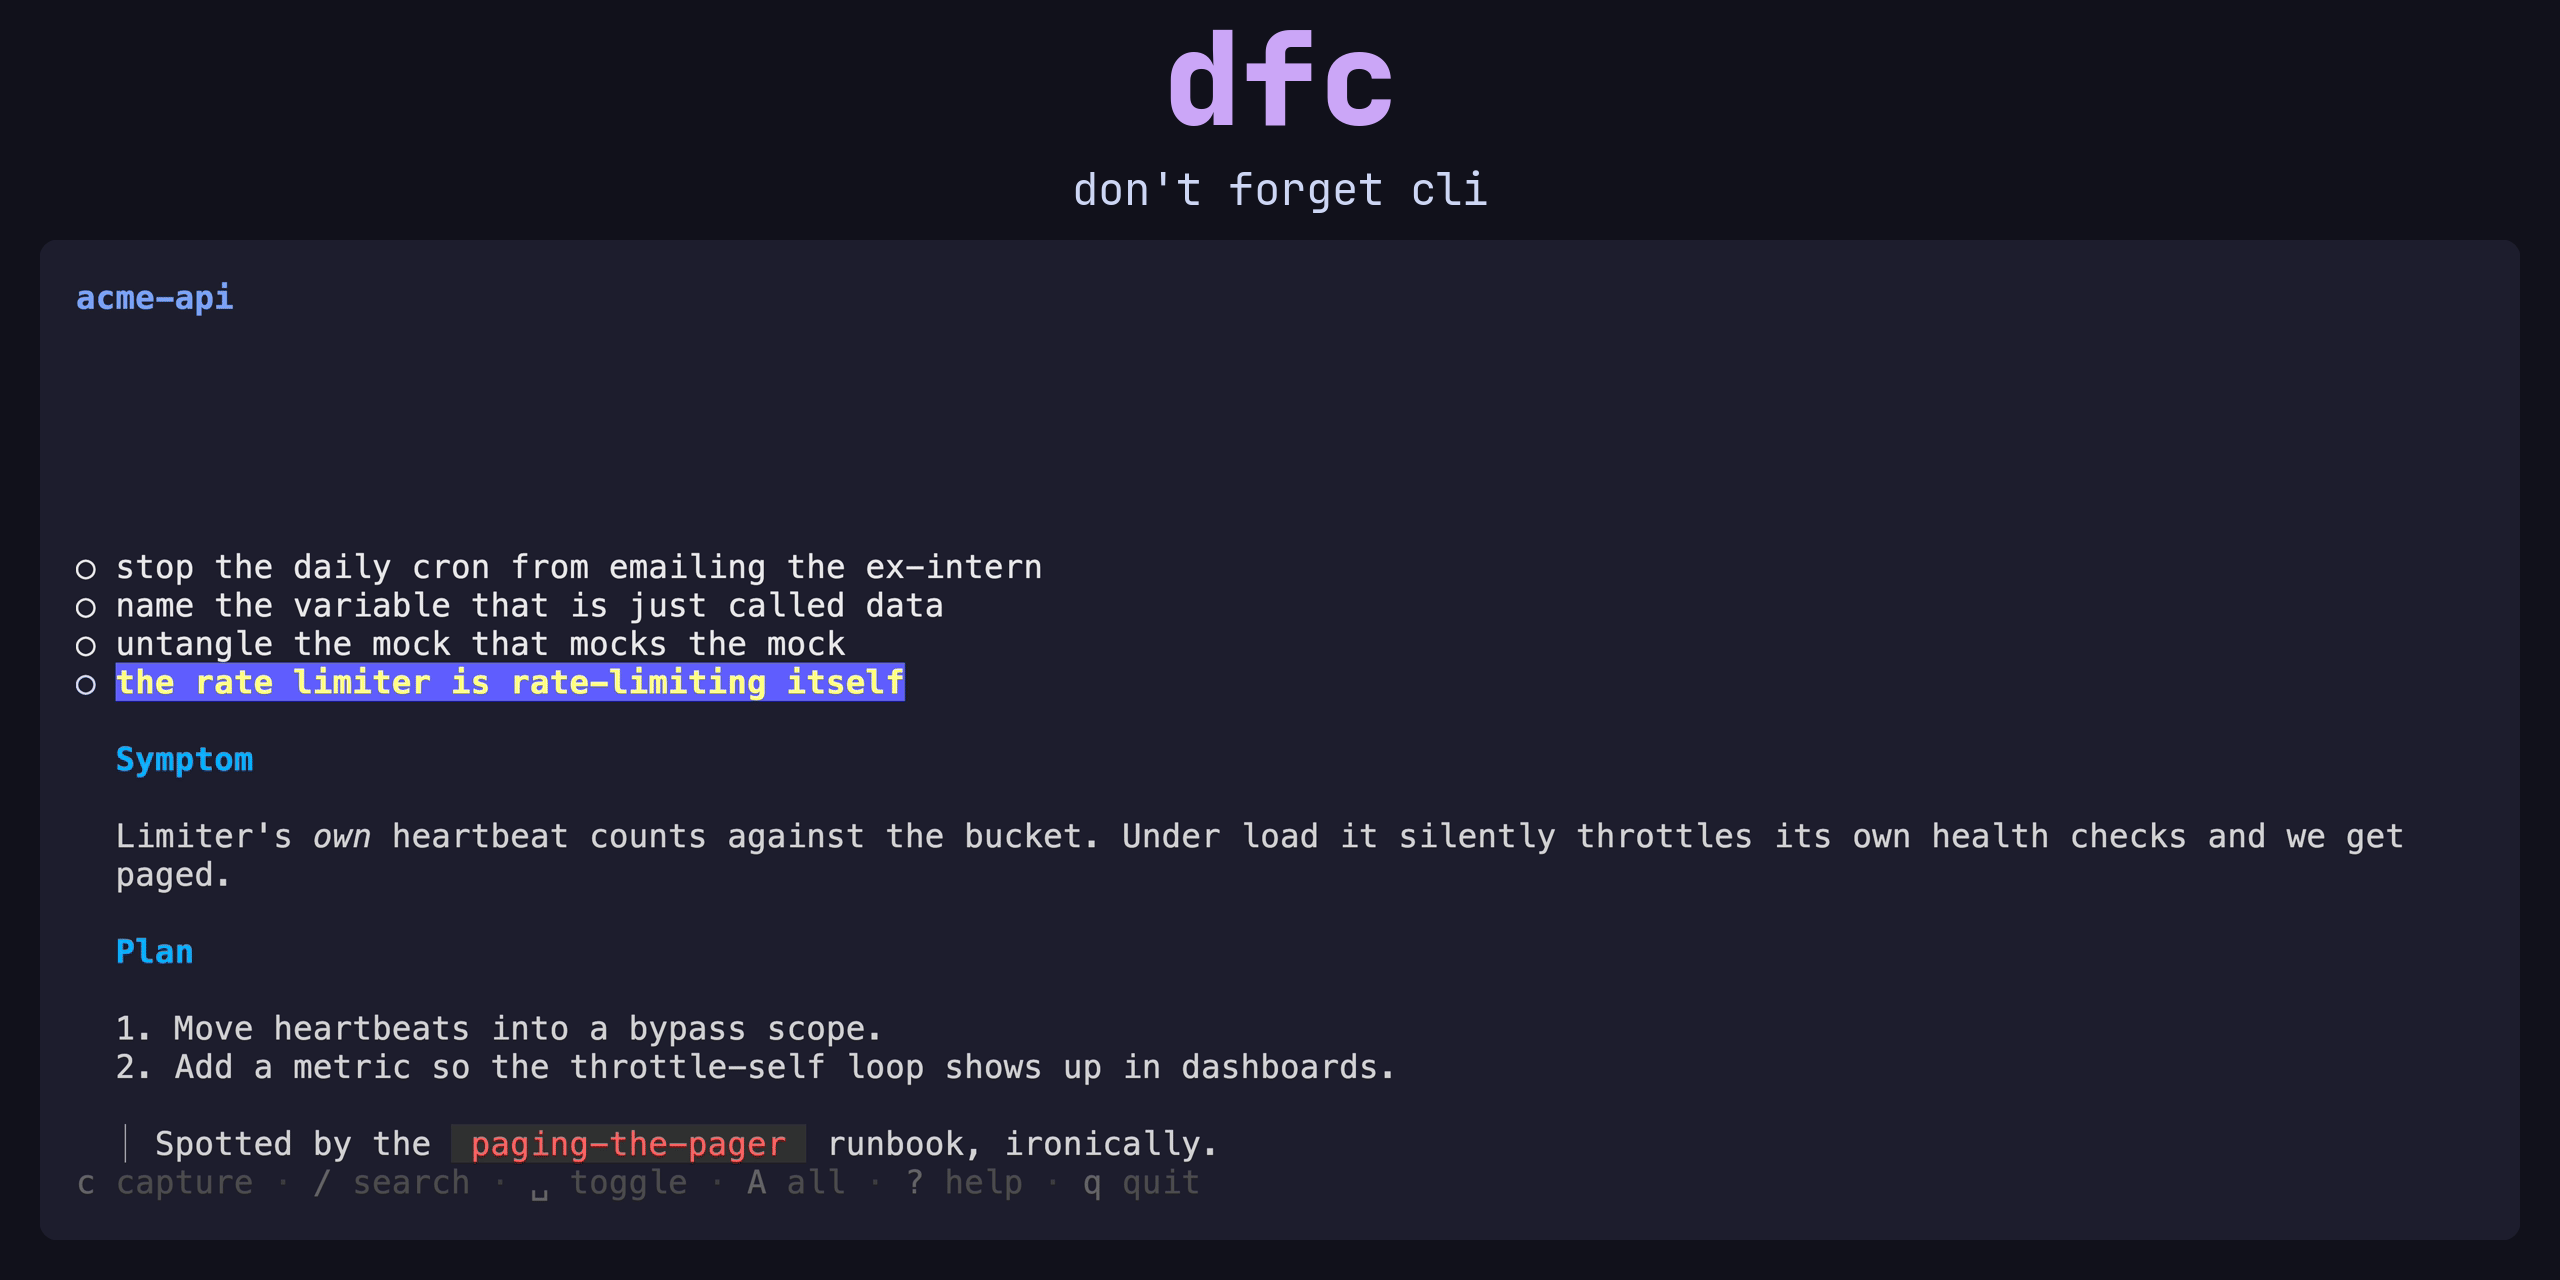
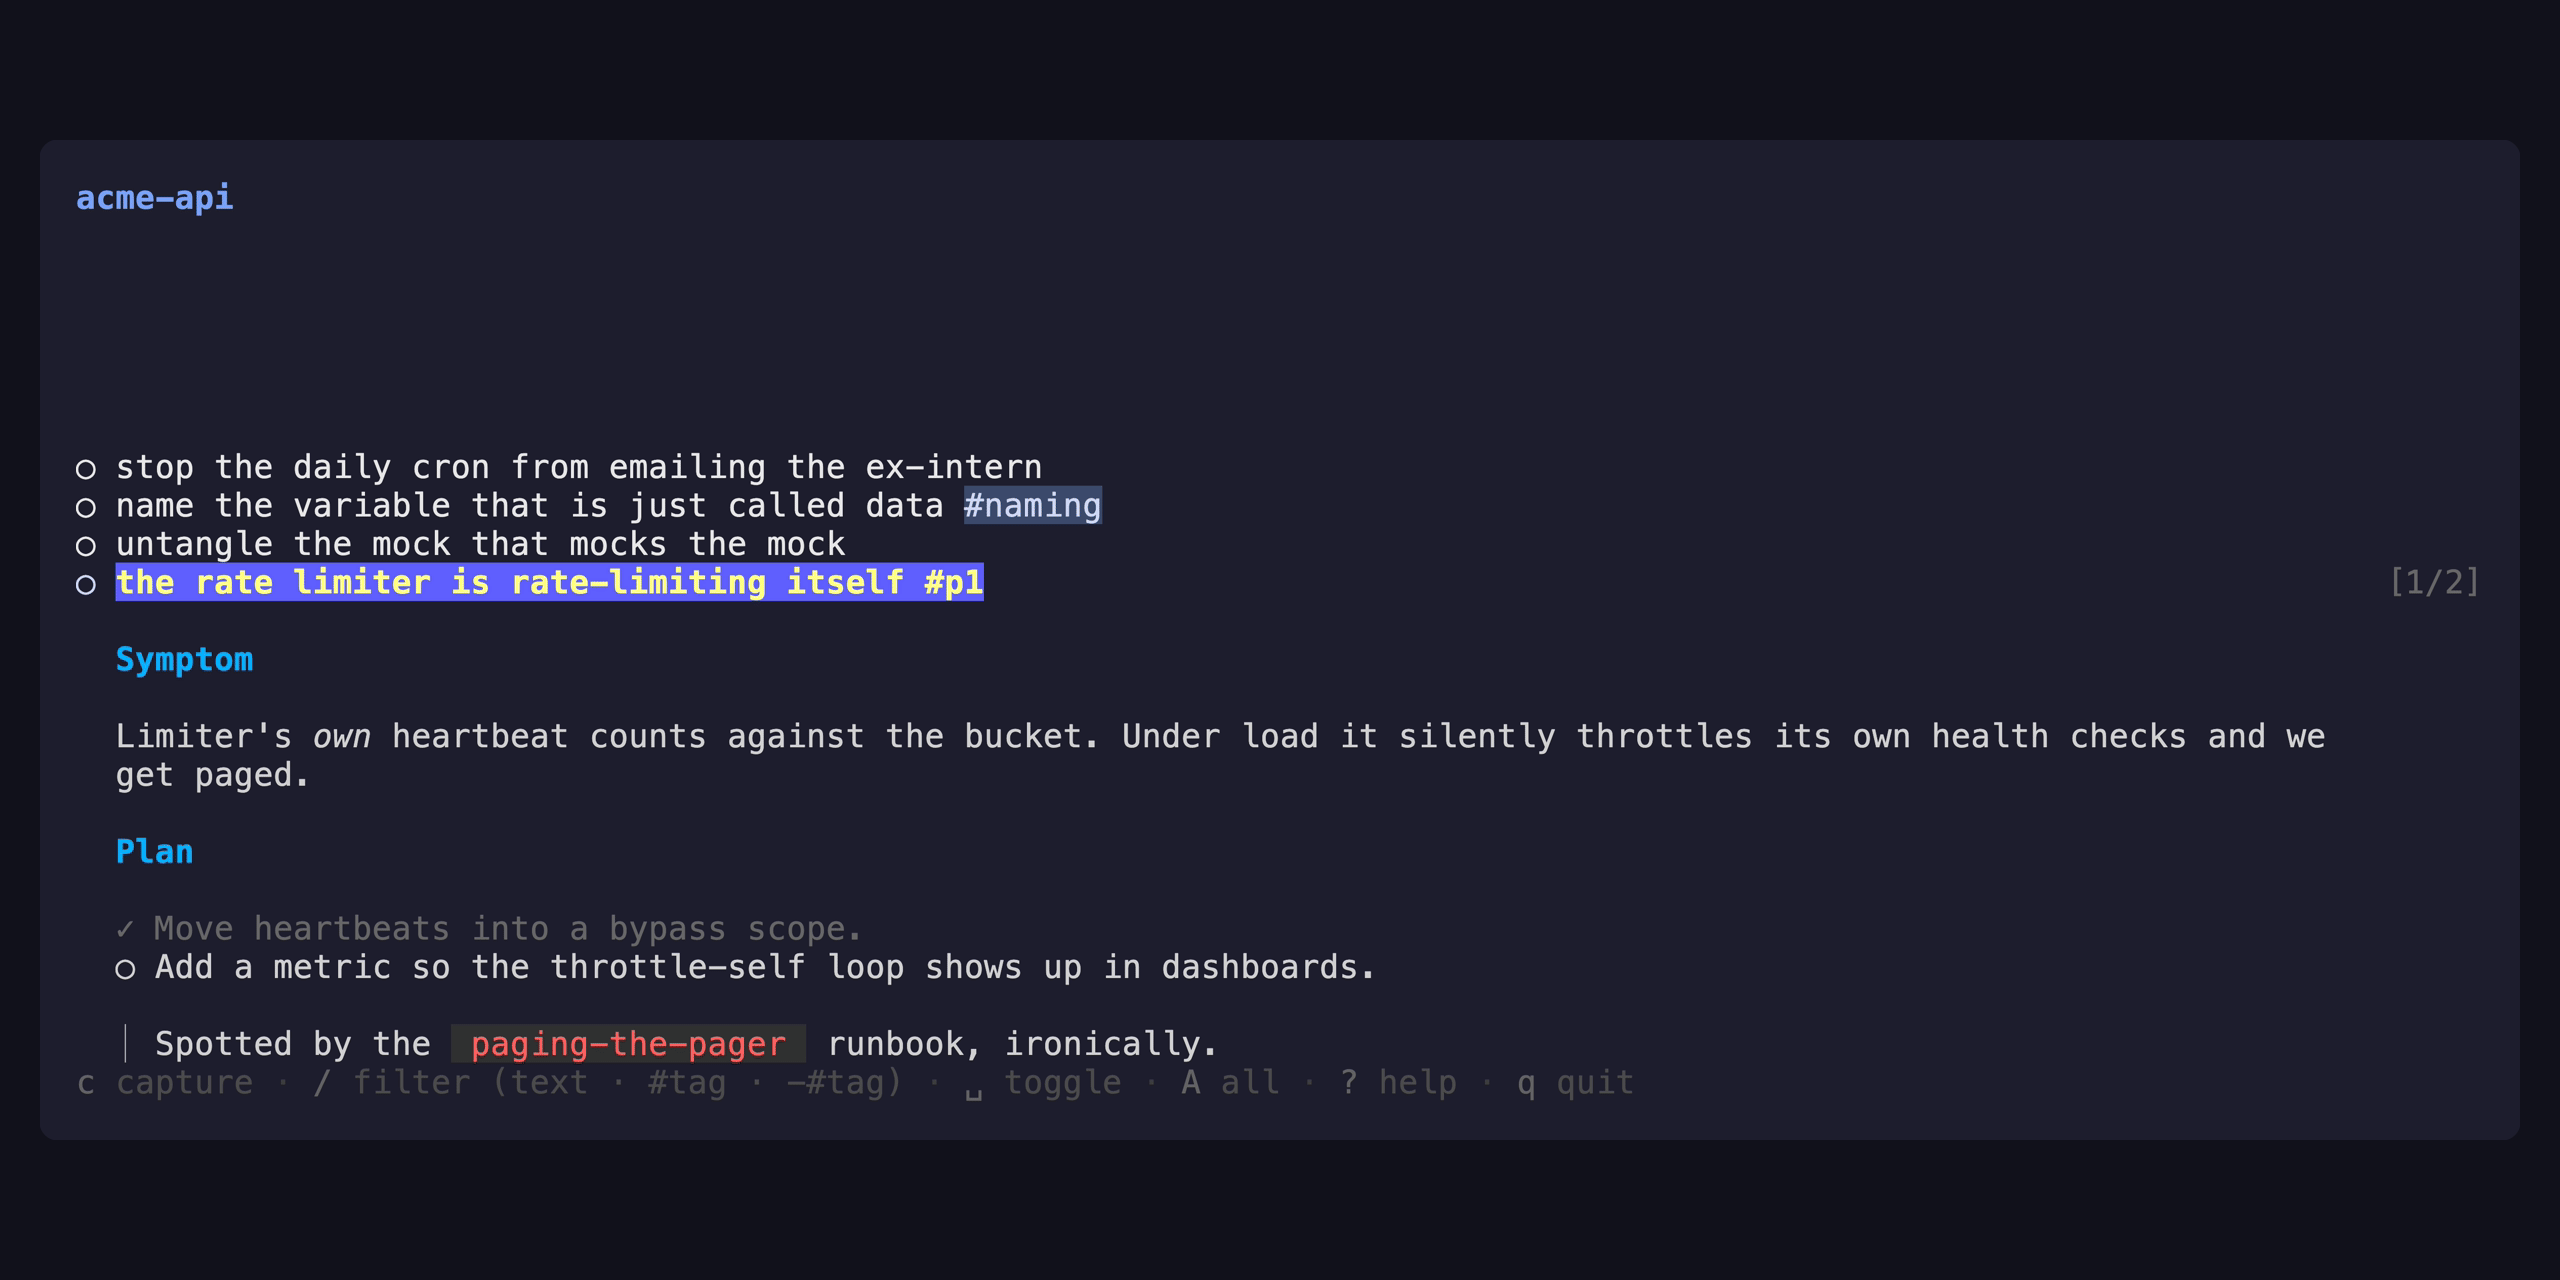
Refresh demo gifs and polish repo docs

diff --git a/README.md b/README.md
@@ -2,6 +2,11 @@
 
 > Quick-capture task CLI and TUI.
 
+[![CI](https://github.com/MaikuMori/dfc/actions/workflows/ci.yml/badge.svg)](https://github.com/MaikuMori/dfc/actions/workflows/ci.yml)
+[![Release](https://img.shields.io/github/v/release/MaikuMori/dfc)](https://github.com/MaikuMori/dfc/releases/latest)
+[![Go Report Card](https://goreportcard.com/badge/github.com/MaikuMori/dfc)](https://goreportcard.com/report/github.com/MaikuMori/dfc)
+[![License: MIT](https://img.shields.io/badge/license-MIT-blue.svg)](LICENSE)
+
 <p align="center">
   <img src="docs/assets/demo.gif" alt="demo" width="1200">
 </p>
@@ -12,11 +17,11 @@
 
 When you're:
 
-- juggling 10 projects;
-- your're in a meeting;
-- or actively doing something else;
+- juggling 10 projects,
+- in a meeting,
+- or actively doing something else,
 
- `dfc` lets you capture tasks quickly without interrupting your workflow.
+`dfc` lets you capture tasks quickly without interrupting your workflow.
 
 `dfc` is not a replacement for a dedicated task management system; it's a quick-capture tool so you don't forget. You can also use it as external todo list for agents that can work across projects.
 
@@ -25,6 +30,7 @@ Key features:
 - **Files on disk.** No database lock-in, no cloud, no account. Open the markdown in any editor.
 - **Project-aware.** Tasks are grouped into projects by directory. Projects are auto-detected from your current working directory.
 - **Power-user-first.** One or two keystrokes to any action.
+- **Tags & checklists.** Inline `#tags` filter and search across projects; `- [ ]` checklists get a `[done/total]` badge.
 - **Agent-friendly.** Every CLI command supports `--json`. An agent skill manifest lives in [`skill/SKILL.md`](skill/SKILL.md).
 
 ## Why not x?
@@ -122,10 +128,11 @@ style = "bold yellow"
 
 ```text
 ~/.dfc/
-├── projects/<slug>/<ulid>-<desc>.md    # tasks: YAML frontmatter + markdown body
-├── projects.json                       # registry: slug → name, tag, last_used
-├── index.db                            # SQLite FTS5 mirror for search
-└── trash/<ulid>/                       # soft-deleted tasks (undo with `dfc undo`)
+├── projects/<slug>/<10-char-ts>-<desc>.md  # tasks: YAML frontmatter + markdown body
+├── projects.json                           # registry: slug → name, prefix, tags, last_used
+├── searches.json                           # saved searches (name → query)
+├── index.db                                # SQLite FTS5 mirror for search
+└── trash/<ulid>/                           # soft-deleted tasks (undo with `dfc undo`)
 ```
 
 ## Documentation

diff --git a/skill/SKILL.md b/skill/SKILL.md
@@ -7,6 +7,8 @@ description: Quick-capture task CLI for projects. Use whenever the user mentions
 
 Quick-capture task CLI. Project scope is auto-derived from the current working directory (git remote → git toplevel → cwd path) and can always be overridden with `-p <slug>` or `-a` (all projects).
 
+**dfc is the user's personal tracker.** Never mention dfc, its task IDs, or `~/.dfc` paths in commit messages, PR titles or descriptions, code, or comments of the project you're working on, unless explicitly asked.
+
 Use it when the user asks to:
 - jot down a task ("remind me to ...", "add a todo", "track that I need to ...")
 - list, search, or filter tasks

diff --git a/SECURITY.md b/SECURITY.md
@@ -1,0 +1,11 @@
+# Security Policy
+
+Only the latest release receives security fixes.
+
+## Reporting a vulnerability
+
+Report privately via [GitHub security advisories](https://github.com/MaikuMori/dfc/security/advisories/new) or email mikskalnins@maikumori.com. Please don't open a public issue for security reports.
+
+## Verifying releases
+
+Release artifacts are signed with cosign (keyless, via GitHub Actions OIDC) and ship with SPDX SBOMs — see the `.bundle` and `.sbom.spdx.json` files attached to each release.

diff --git a/docs/demos/body.md b/docs/demos/body.md
@@ -5,7 +5,7 @@ silently throttles its own health checks and we get paged.
 
 ## Plan
 
-1. Move heartbeats into a bypass scope.
-2. Add a metric so the throttle-self loop shows up in dashboards.
+- [x] Move heartbeats into a bypass scope.
+- [ ] Add a metric so the throttle-self loop shows up in dashboards.
 
 > Spotted by the `paging-the-pager` runbook, ironically.
